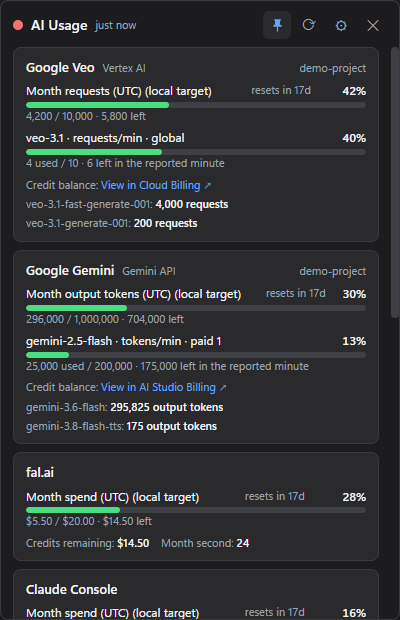
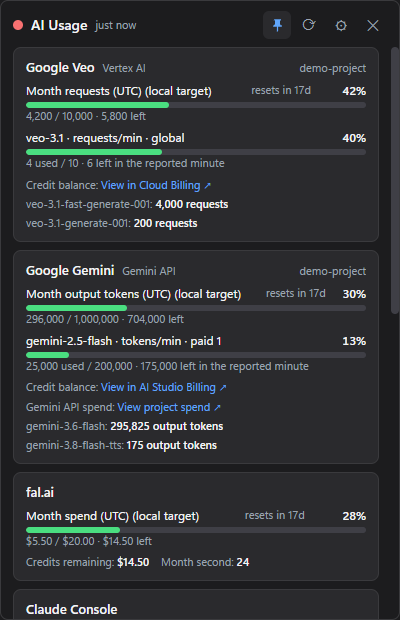
feat(google): link Gemini project spending

diff --git a/src/providers/_google-monitoring.ts b/src/providers/_google-monitoring.ts
@@ -215,6 +215,12 @@ export async function fetchGoogle(config: ProviderConfig, kind: "gemini" | "veo"
         url: billingUrl,
       },
     ];
+    if (backend === "gemini")
+      extras.push({
+        label: "Gemini API spend",
+        value: "View project spend",
+        url: `https://aistudio.google.com/spend?project=${encodeURIComponent(auth.project)}`,
+      });
     if (kind === "veo") extras.push(extra("Billing unit", "video requests/seconds"));
     extras.push(
       ...modelUsage(matching, kind === "veo" ? "requests" : backend === "vertex" ? "tokens" : "output tokens"),

diff --git a/src/demo.ts b/src/demo.ts
@@ -49,6 +49,11 @@ export function demoResults(): ProviderResult[] {
       ],
       extras: [
         { label: "Credit balance", value: "View in AI Studio Billing", url: "https://aistudio.google.com/billing" },
+        {
+          label: "Gemini API spend",
+          value: "View project spend",
+          url: "https://aistudio.google.com/spend?project=demo-project",
+        },
         { label: "gemini-3.6-flash", value: "295,825 output tokens" },
         { label: "gemini-3.8-flash-tts", value: "175 output tokens" },
       ],

diff --git a/src/providers/google-monitoring.test.ts b/src/providers/google-monitoring.test.ts
@@ -106,4 +106,7 @@ it("collects all month token pages instead of silently undercounting", async () 
   expect(result.windows[0]?.detail).toContain("8 used");
   expect(result.extras.find((x) => x.label === "gemini-2.5-flash")?.value).toBe("8 output tokens");
   expect(result.extras.find((x) => x.label === "Credit balance")?.url).toBe("https://aistudio.google.com/billing");
+  expect(result.extras.find((x) => x.label === "Gemini API spend")?.url).toBe(
+    "https://aistudio.google.com/spend?project=test-project",
+  );
 });

diff --git a/README.md b/README.md
@@ -39,7 +39,7 @@ These are separate account monitors. They query provider APIs directly and never
 
 Paste credentials directly in each card's Settings: a **Billing API key** for fal.ai, a **Console organization API key** for Claude, and a **Monitoring API key (service-account JSON)** for Google. The Google field accepts JSON or base64 JSON; alternatively enter a service-account JSON file path. Google model-generation API keys cannot read historical Monitoring reports. Select the Cloud project that owns the usage and the `vertex` or `gemini` backend. Saved credentials are masked in Settings and are never sent back to the renderer. Existing env-file configurations remain supported for compatibility, but no env-file field is required or shown. The app does not change Google IAM roles or key permissions.
 
-Google quota percentages compare a reported one-minute usage sample only with its matching model, region, limit and period. Missing or stale usage produces an unknown percentage. The cards also break reported monthly usage down by model. Monitoring can lag actual requests and does not publish a billing-credit balance: the Credit balance link opens [AI Studio Billing](https://aistudio.google.com/billing) for Gemini API or [Cloud Billing](https://console.cloud.google.com/billing) for Vertex Veo. AI Studio Prepay credits and Vertex/Cloud credits are separate balances; neither is inferred from token or request counts. Veo through the Gemini API reports the paid-tier-1 monthly request counter; other tiers can still show recent quota samples when published. See Google's [Gemini metrics](https://docs.cloud.google.com/monitoring/api/metrics_gcp_d_h) and [Vertex metrics](https://docs.cloud.google.com/monitoring/api/metrics_gcp_a_b).
+Google quota percentages compare a reported one-minute usage sample only with its matching model, region, limit and period. Missing or stale usage produces an unknown percentage. The cards also break reported monthly usage down by model. Monitoring can lag actual requests and does not publish a billing-credit balance: the Credit balance link opens [AI Studio Billing](https://aistudio.google.com/billing) for Gemini API or [Cloud Billing](https://console.cloud.google.com/billing) for Vertex Veo. The Gemini API card also links to project spend in AI Studio. AI Studio Prepay credits and Vertex/Cloud credits are separate balances; neither is inferred from token or request counts. Veo through the Gemini API reports the paid-tier-1 monthly request counter; other tiers can still show recent quota samples when published. See Google's [Gemini metrics](https://docs.cloud.google.com/monitoring/api/metrics_gcp_d_h) and [Vertex metrics](https://docs.cloud.google.com/monitoring/api/metrics_gcp_a_b).
 
 fal.ai's [billing endpoint](https://fal.ai/docs/platform-apis/v1/account/billing) exposes credits; its [usage endpoint](https://fal.ai/docs/platform-apis/v1/models/usage) requires more permissions. Generation-only keys can return 403. [Claude Console Usage & Cost](https://platform.claude.com/docs/en/manage-claude/usage-cost-api) does not expose purchased credit balance and may be unavailable to individual accounts. Claude also accepts [personal or service-account keys with Organization scope](https://platform.claude.com/docs/en/manage-claude/admin-api#authentication); their permissions follow the linked account. A local USD budget is labelled separately from actual provider credit. Missing permissions, incomplete reports and unknown balances are never presented as zero or unlimited.
 
